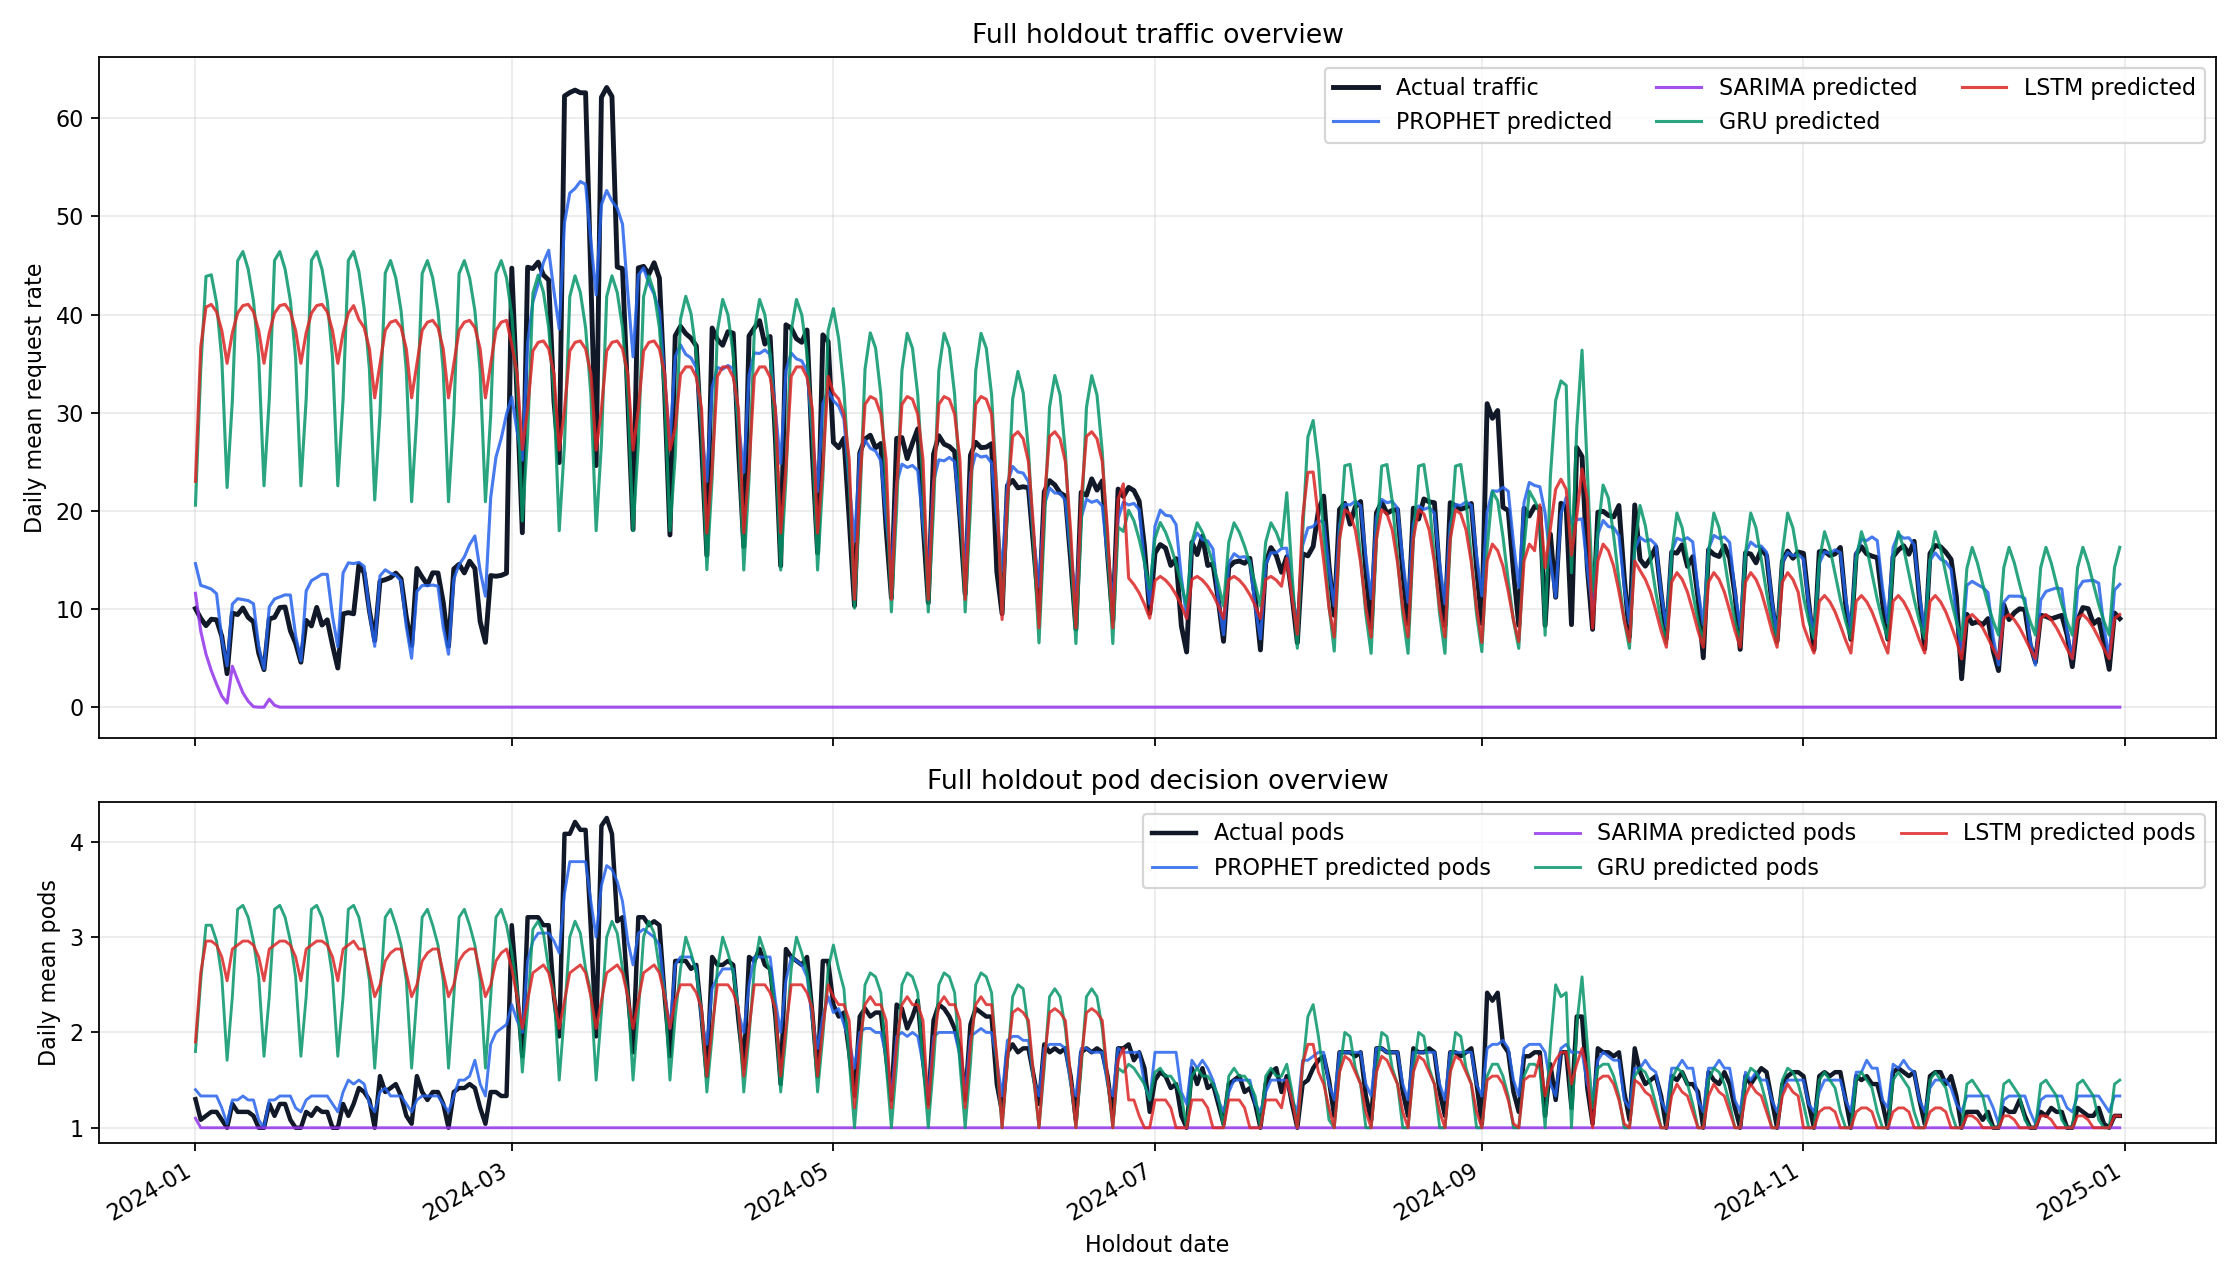
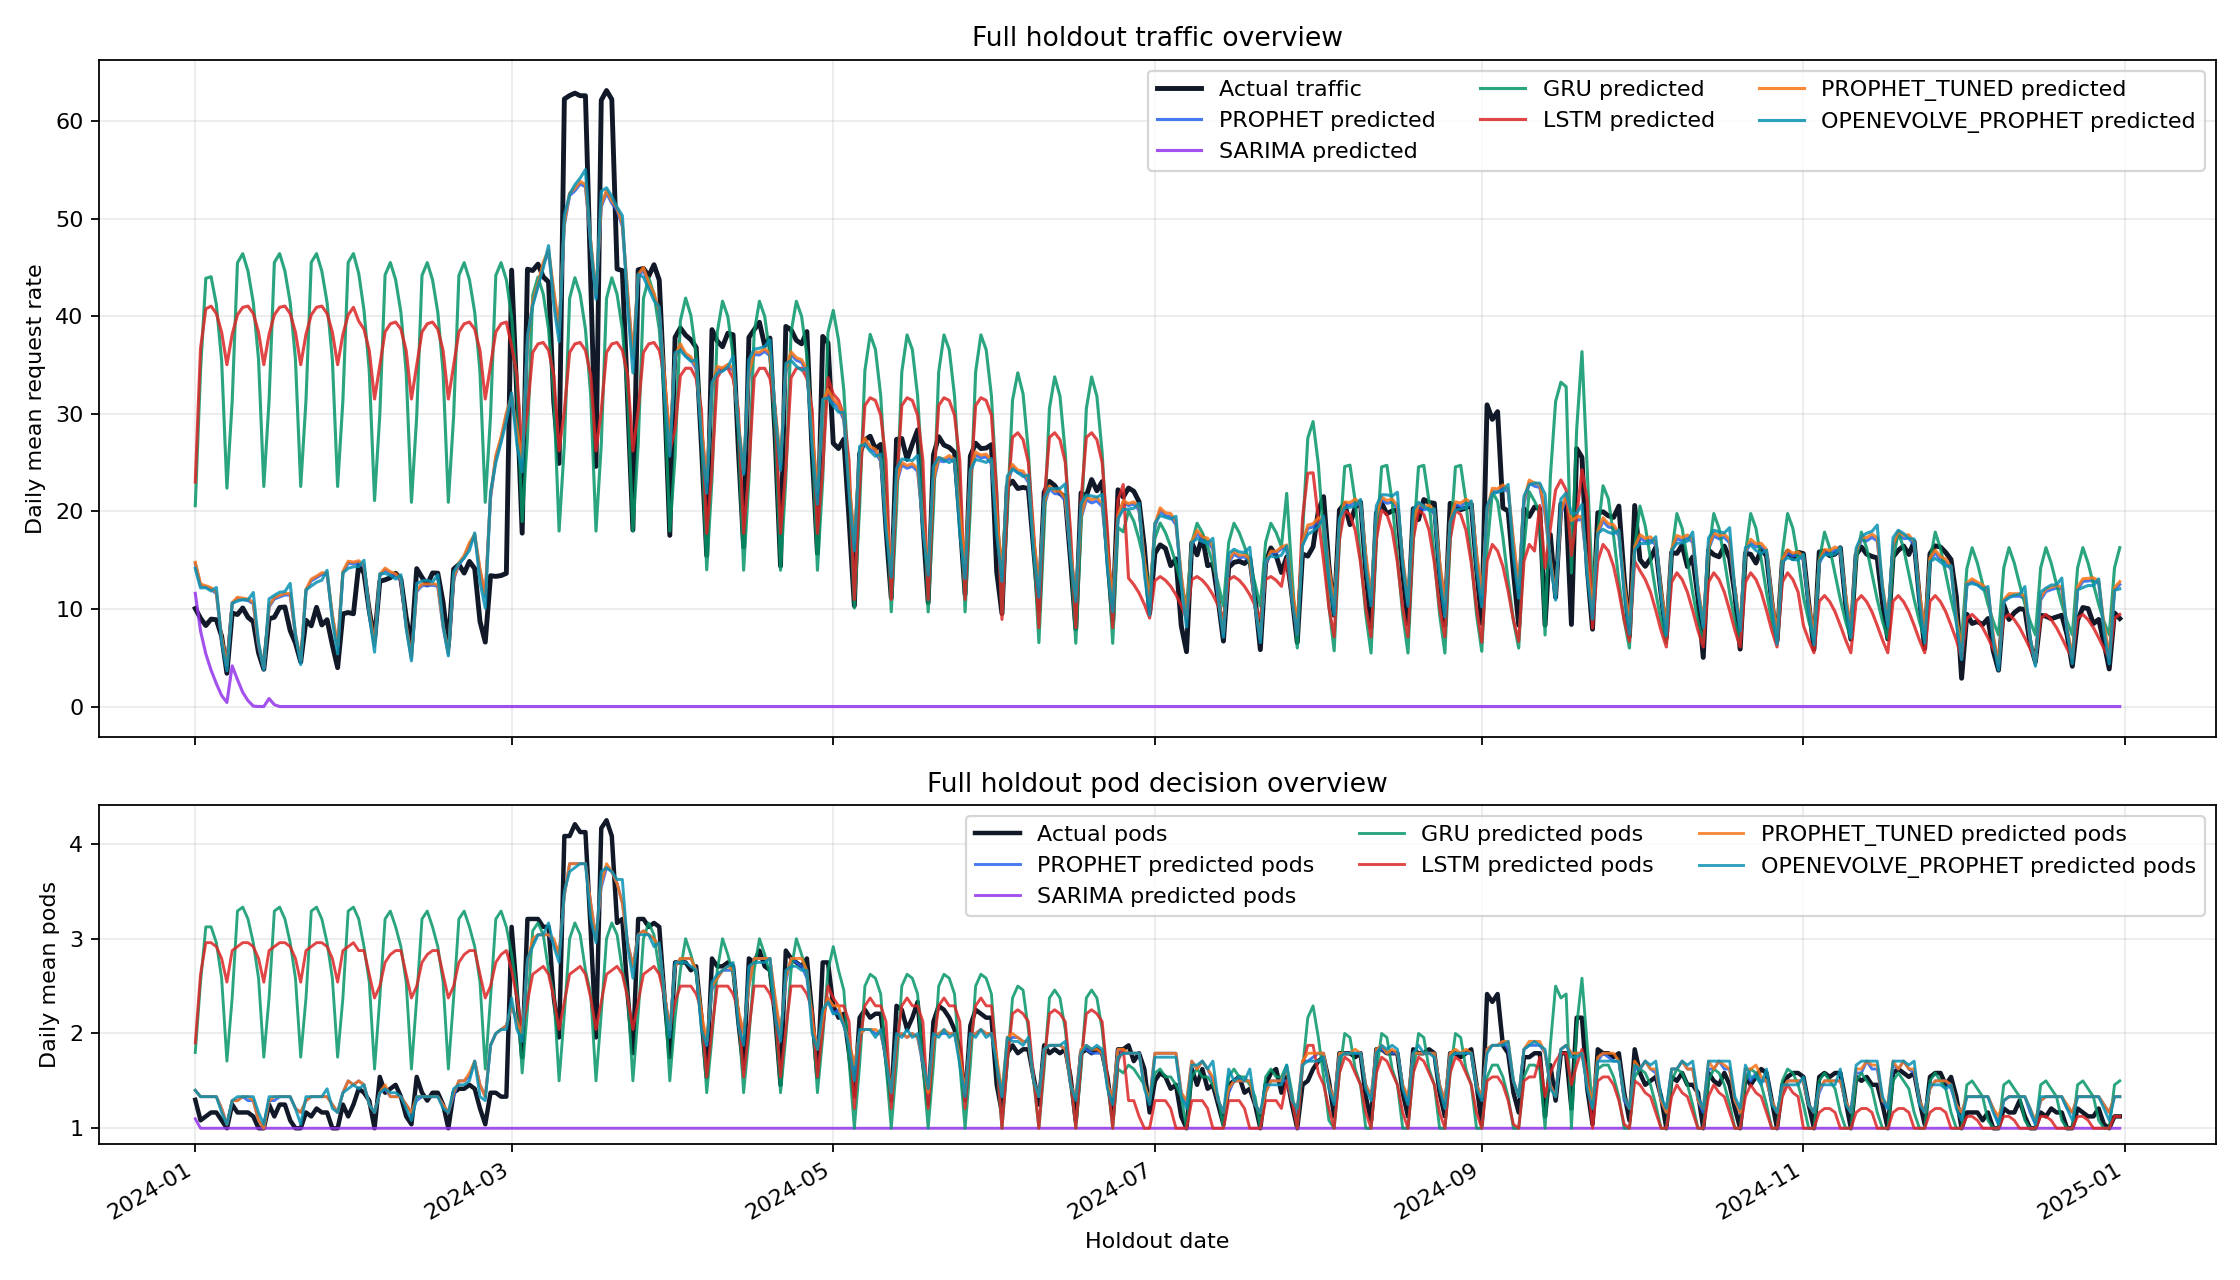
#21 docs: 시각화 및 리드미 수정

diff --git a/src/evaluation/plot_holdout_overview.py b/src/evaluation/plot_holdout_overview.py
@@ -14,12 +14,14 @@ import pandas as pd
 
 
 PROJECT_ROOT = Path(__file__).resolve().parents[2]
-MODEL_NAMES = ("prophet", "sarima", "gru", "lstm")
+MODEL_NAMES = ("prophet", "sarima", "gru", "lstm", "prophet_tuned", "openevolve_prophet")
 MODEL_COLORS = {
     "prophet": "#2563eb",
     "sarima": "#9333ea",
     "gru": "#059669",
     "lstm": "#dc2626",
+    "prophet_tuned": "#f97316",
+    "openevolve_prophet": "#0891b2",
 }
 
 

diff --git a/src/evaluation/compare_models.py b/src/evaluation/compare_models.py
@@ -13,7 +13,7 @@ import pandas as pd
 PROJECT_ROOT = Path(__file__).resolve().parents[2]
 RESULTS_DIR = PROJECT_ROOT / "experiments" / "results"
 PLOTS_DIR = PROJECT_ROOT / "experiments" / "plots"
-MODEL_NAMES = ["prophet", "sarima", "gru", "lstm"]
+MODEL_NAMES = ["prophet", "sarima", "gru", "lstm", "prophet_tuned", "openevolve_prophet"]
 METRIC_COLUMNS = [
     "smape",
     "pod_accuracy",

diff --git a/src/evaluation/plot_holdout_comparison.py b/src/evaluation/plot_holdout_comparison.py
@@ -17,7 +17,7 @@ from matplotlib.patches import Patch
 PROJECT_ROOT = Path(__file__).resolve().parents[2]
 DEFAULT_MODEL = "prophet"
 DEFAULT_DAYS = 30
-MODEL_NAMES = ("prophet", "sarima", "gru", "lstm", "prophet_tuned")
+MODEL_NAMES = ("prophet", "sarima", "gru", "lstm", "prophet_tuned", "openevolve_prophet")
 
 
 def parse_args() -> argparse.Namespace:
